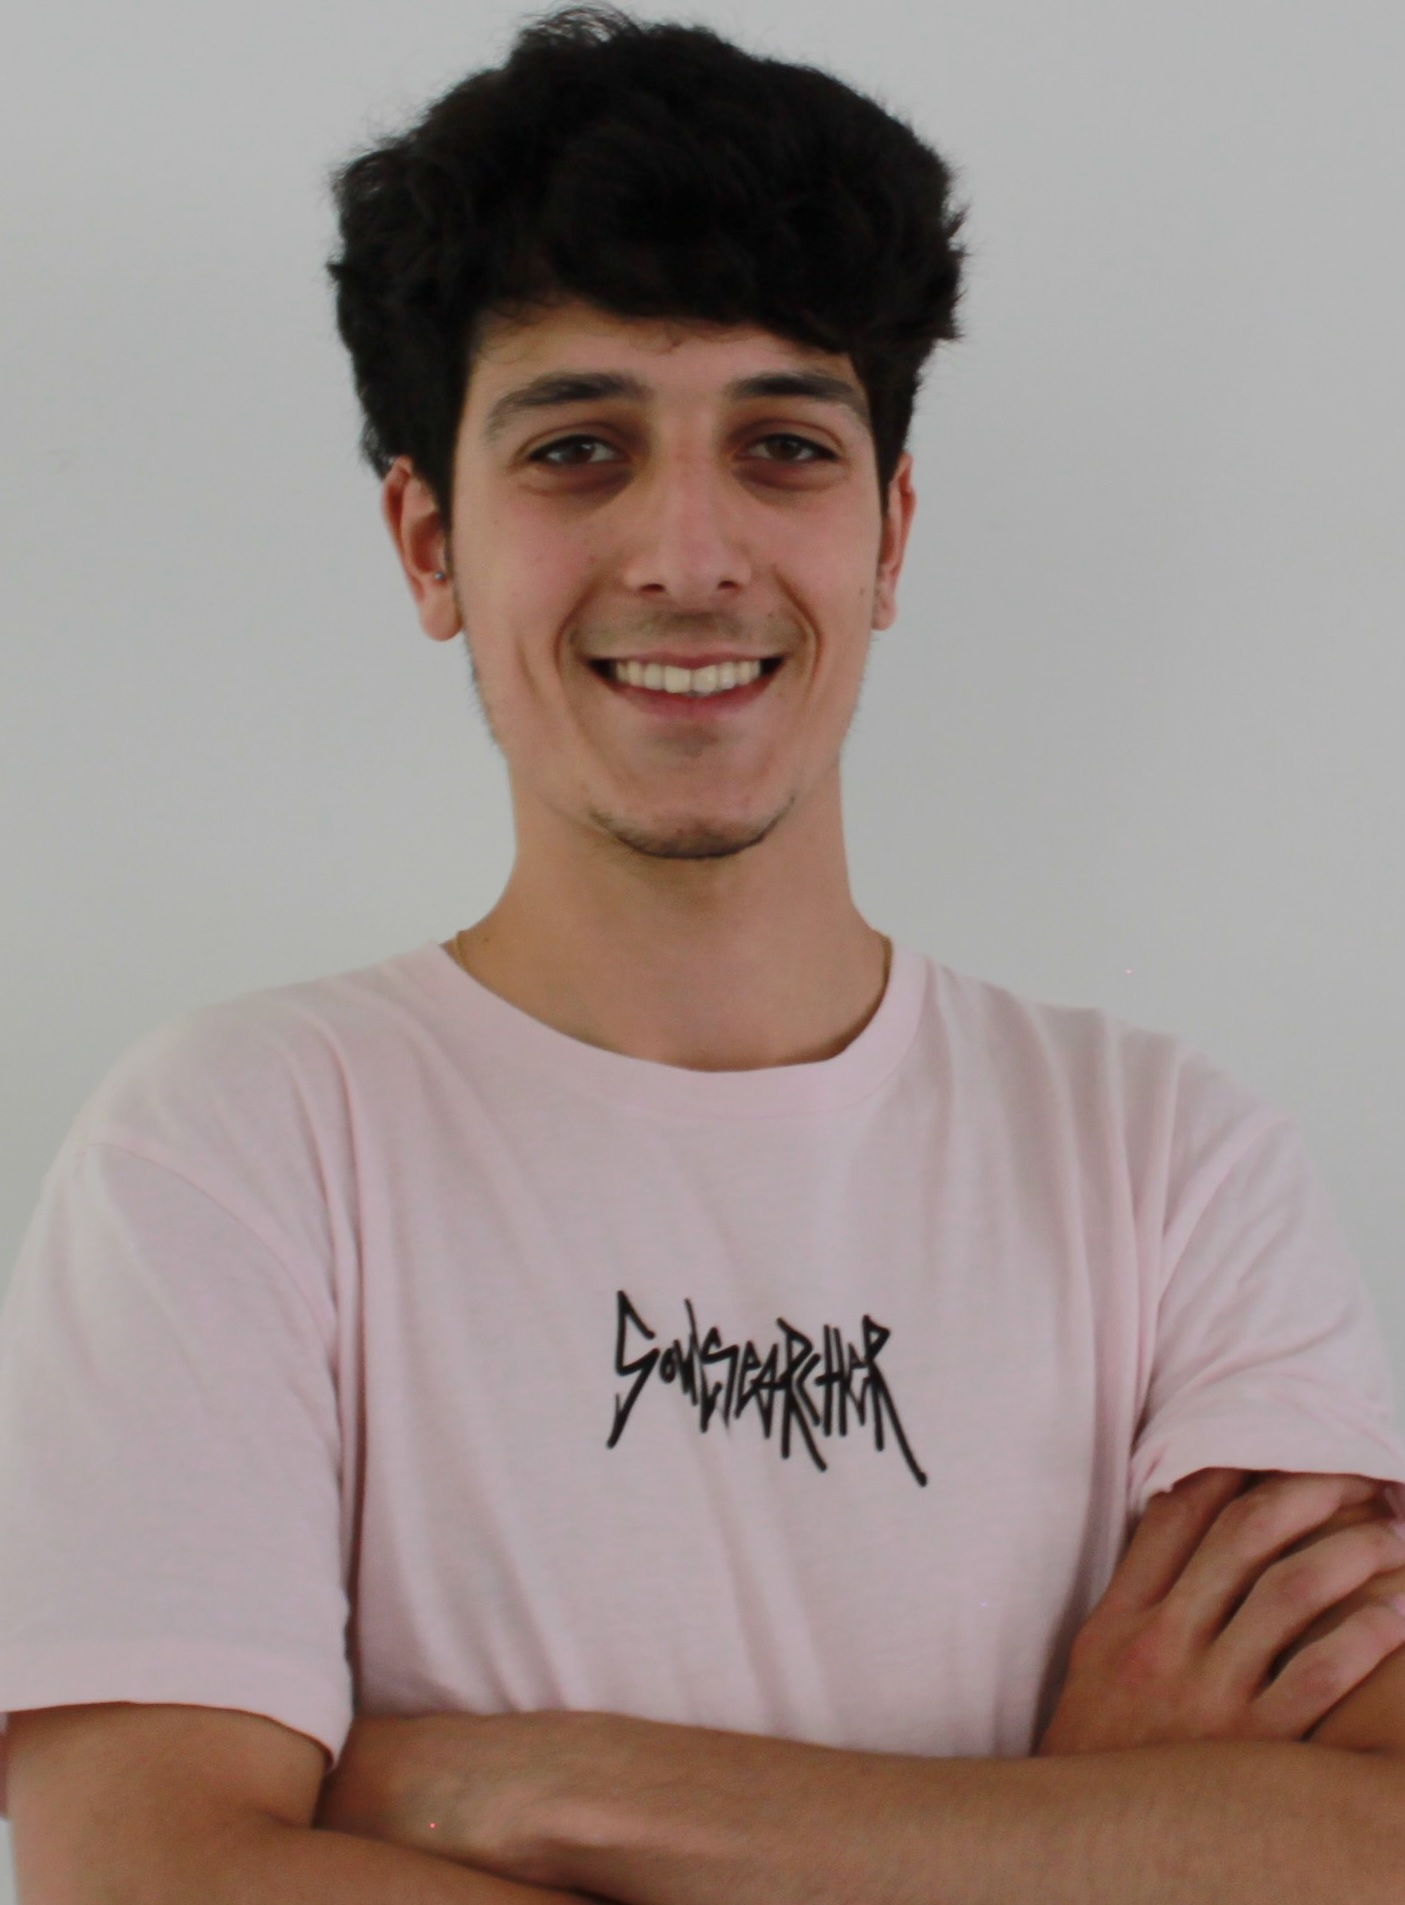
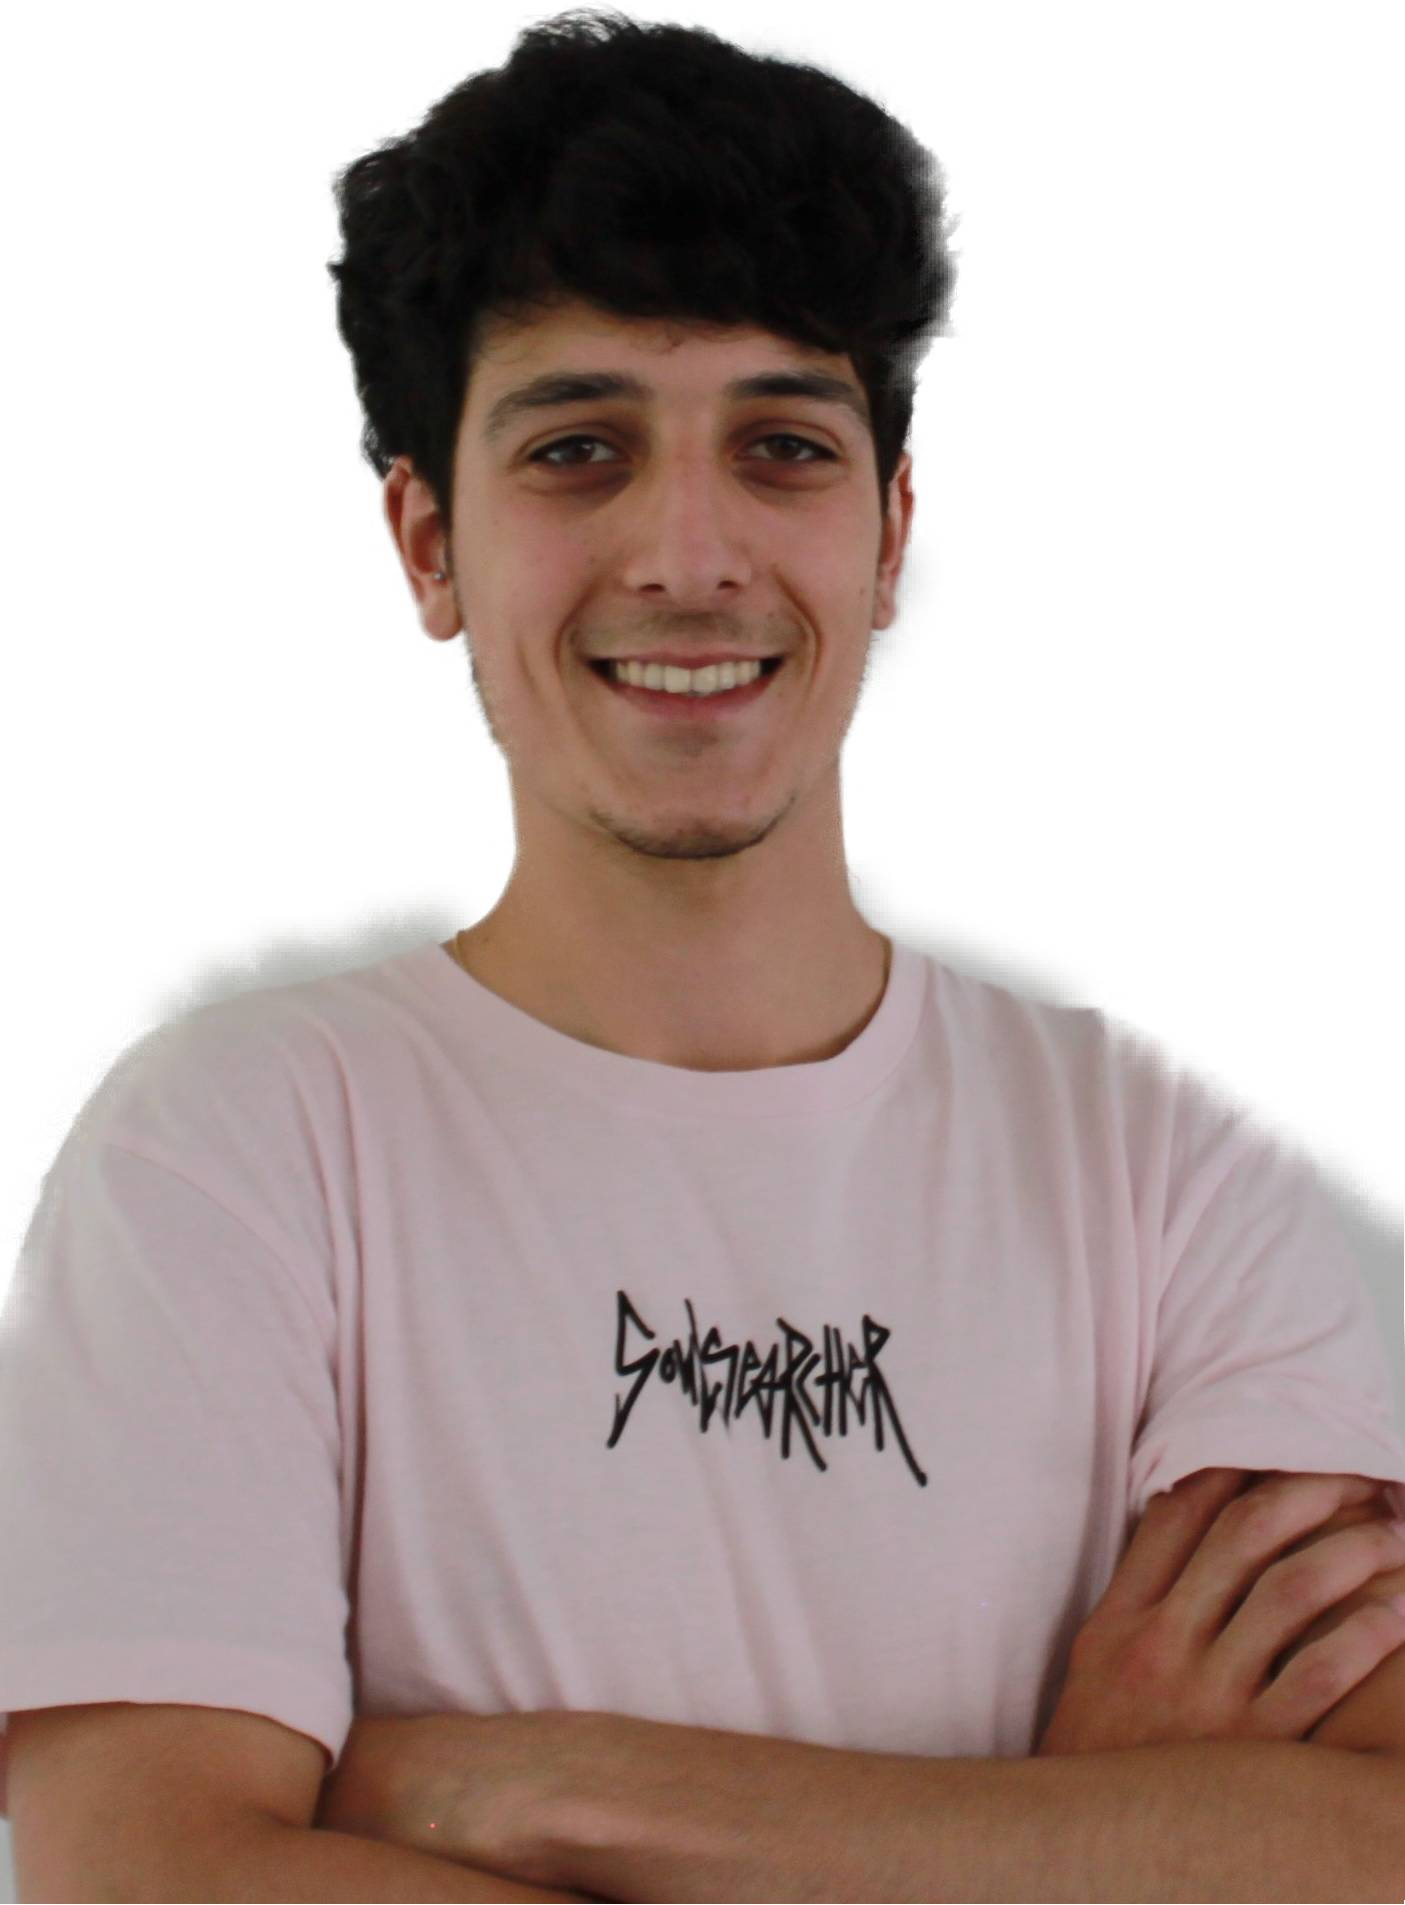
cambios en las fotos y tamaños de aboutUs, convertidas en imagen redonda

diff --git a/src/pages/About.js b/src/pages/About.js
@@ -15,28 +15,26 @@ export const About = () => {
             diversas opiniones para crear una comunidad de exploradores.
           </p>
         </div>
-        <div>
+        <div className="fundador ml-4">
           <img
             src="./fotoxavi.jpg"
             alt="Logo de la página"
-            className="img-fluid"
           />
         </div>
-        <div>
+        <div className="fundador1">
           <img
             src="./fotofelipe.jpg"
             alt="Logo de la página"
-            className="img-fluid"
           />
         </div>
-        <div>
+        <div className="fundador1">
           <img
             src="./aquaTravel.png"
             alt="Logo de la página"
             className="img-fluid"
           />
         </div>
-        <div>
+        <div className="fundador1">
           <img
             src="./aquaTravel.png"
             alt="Logo de la página"

diff --git a/src/index.css b/src/index.css
@@ -133,6 +133,34 @@ body {
 .box {
   border-top: 1px solid var(--color-principal);
 }
+.fundador {
+  display: inline-block;
+  position: relative;
+  width: 200px;
+  height: 200px;
+  overflow: hidden;
+  border-radius: 50%;
+}
+.fundador img {
+  width: auto;
+  height: 140%;
+  margin-left: 0px;
+  margin-top: 25px;
+}
+.fundador1 {
+  display: inline-block;
+  position: relative;
+  width: 200px;
+  height: 200px;
+  overflow: hidden;
+  border-radius: 50%;
+}
+.fundador1 img {
+  width: auto;
+  height: 100%;
+  margin-left: 25px;
+}
+
 
 .both {
   background-color: var(--color-blanco);
